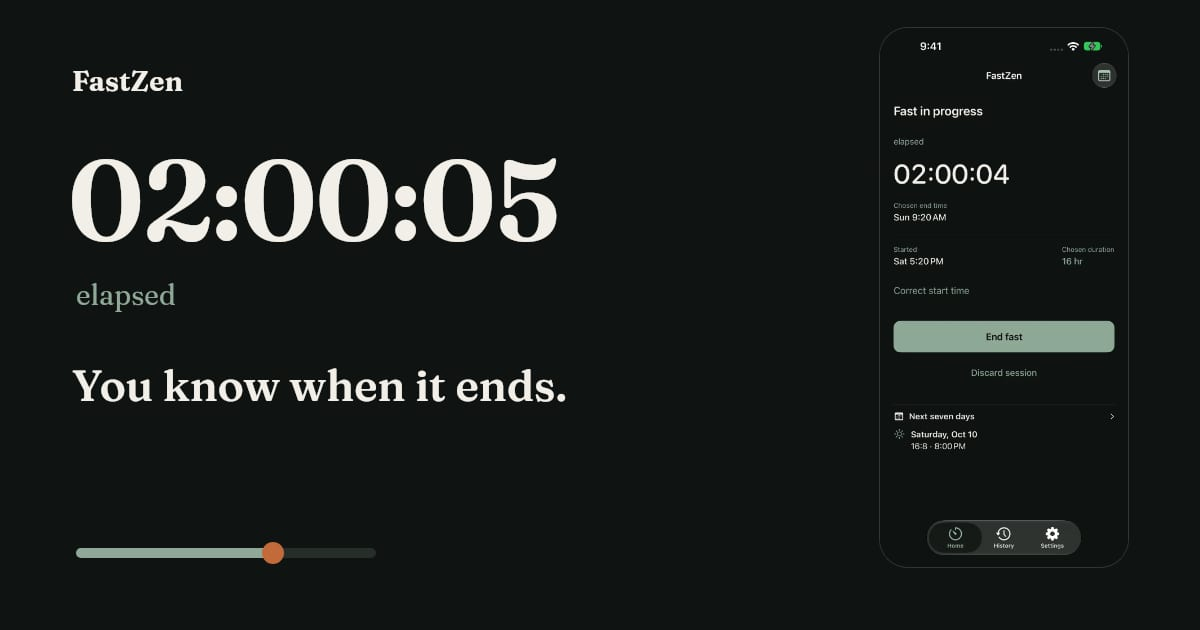
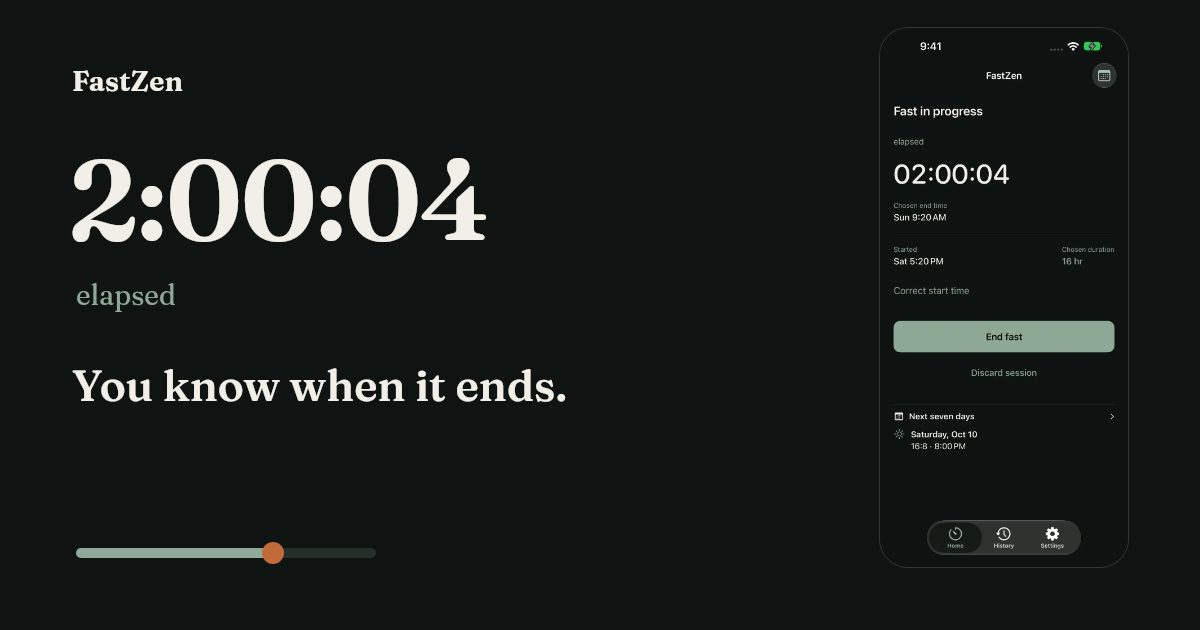
FastZen: même jeûne sur le cadran et la capture
Le cadran français part de 17:38 et finit à 09:38, comme l’accueil.
La capture est dans le premier écran mobile, et fait 70 % de la hauteur
à 1440 px. Le numéro de version sort du haut de page.

diff --git a/apps/fastzen/site/dial.css b/apps/fastzen/site/dial.css
@@ -1,6 +1,7 @@
-/* FastZen, "the fasting dial": a 24-hour ring whose sage arc is the fast
-   and whose copper mark is the planned finish. Colours are the app's dark
-   theme (Tea Black, Bamboo, Sage Mist, Copper, Mochi). One family, Fraunces. */
+/* FastZen, "the fasting dial": a 24-hour ring. The pale arc is elapsed
+   time, the sage arc is what remains, the sage dot is the finish. Colours
+   are the app's dark theme (Tea Black, Bamboo, Sage Mist, Copper, Mochi).
+   One family, Fraunces. */
 @font-face {
   font-family: "Fraunces";
   src: url("fonts/fraunces-latin-wght-normal.woff2") format("woff2");
@@ -72,7 +73,7 @@ button, input, select, textarea { font: inherit; color: inherit; }
   font-weight: 650;
   min-width: 0;
 }
-.fz-brand img { border-radius: 8px; }
+.fz-brand img { width: 36px; height: 36px; border-radius: 8px; }
 .fz-nav { display: none; gap: 8px 18px; }
 .fz-nav a { color: var(--mochi); text-decoration: none; }
 .fz-nav a:hover { text-decoration: underline; }
@@ -103,12 +104,22 @@ button, input, select, textarea { font: inherit; color: inherit; }
 .fz-open {
   max-width: var(--wrap);
   margin: 0 auto;
-  padding: 28px var(--side) 56px;
+  padding: 8px var(--side) 48px;
   text-align: center;
 }
-.fz-pitch { min-width: 0; }
-.fz-beside { display: none; }
-.fz-dial { width: min(100%, 420px); margin: 0 auto 8px; }
+.fz-pitch {
+  min-width: 0;
+  display: flex;
+  flex-wrap: wrap;
+  align-items: center;
+  justify-content: center;
+  column-gap: 14px;
+  row-gap: 8px;
+}
+.fz-titleblock { flex: 1 1 9.5rem; min-width: 0; text-align: start; }
+.fz-dial { width: min(100%, 200px); margin: 0 auto; }
+.fz-beside { display: block; flex: 0 0 auto; width: min(32vw, 118px); margin: 0; }
+.fz-badges, .fz-intro, .fz-fine, .fz-proto, .fz-range, .fz-win { flex: 1 1 100%; }
 .fz-face { position: relative; container-type: inline-size; }
 .fz-ring { width: 100%; height: auto; display: block; overflow: visible; }
 .fz-track { fill: none; stroke: var(--bamboo); stroke-width: 7; }
@@ -135,8 +146,7 @@ button, input, select, textarea { font: inherit; color: inherit; }
   text-anchor: middle;
   dominant-baseline: central;
 }
-.fz-start, .fz-endlab { fill: var(--mochi); }
-.fz-endlab { font-size: 9px; }
+.fz-startlab, .fz-endlab { fill: var(--mochi); font-size: 10px; }
 .fz-core {
   position: absolute;
   inset: 32%;
@@ -163,8 +173,8 @@ button, input, select, textarea { font: inherit; color: inherit; }
   max-width: 16ch;
 }
 .fz-hint { color: var(--sage); font-size: 0.92rem; max-width: 36em; margin: 8px auto 0; }
-.fz-lead { margin-top: 18px; color: var(--sage); }
-.fz-open .fz-badges { margin-top: 4px; margin-bottom: 18px; }
+.fz-lead { margin-top: 2px; color: var(--sage); line-height: 1.3; font-size: 0.98rem; }
+.fz-open .fz-badges { margin-top: 0; margin-bottom: 14px; }
 .fz-h1, .fz-block h2, .fz-h2b {
   font-weight: 650;
   letter-spacing: -0.03em;
@@ -172,9 +182,9 @@ button, input, select, textarea { font: inherit; color: inherit; }
   text-wrap: balance;
 }
 .fz-h1 {
-  font-size: clamp(1.85rem, 6.4vw, 4.35rem);
+  font-size: clamp(1.65rem, 6.2vw, 4.35rem);
   max-width: 16em;
-  margin: 8px auto 14px;
+  margin: 4px auto 6px;
 }
 .fz-intro { max-width: 38em; margin: 0 auto; }
 .fz-badges { display: flex; flex-wrap: wrap; gap: 12px; justify-content: center; align-items: center; margin-top: 20px; }
@@ -227,6 +237,7 @@ button, input, select, textarea { font: inherit; color: inherit; }
 .fz-guide { margin-top: 16px; }
 .fz-shot { display: grid; justify-items: center; margin-top: 22px; }
 .fz-shot img { width: min(92vw, 420px); height: auto; }
+.fz-beside img { width: 100%; height: auto; }
 .fz-cap { margin-top: 10px; max-width: 36em; color: var(--sage); font-size: 0.92rem; text-align: center; }
 
 .fz-bill { max-width: 40rem; margin-top: 22px; padding: 4px 20px 18px; border: 1px solid var(--sage); }
@@ -286,13 +297,17 @@ button, input, select, textarea { font: inherit; color: inherit; }
 @media (min-width: 900px) {
   .fz-open {
     display: grid;
-    grid-template-columns: minmax(280px, 420px) minmax(16rem, 1fr) minmax(168px, 230px);
-    align-items: center;
-    gap: 8px 32px;
+    grid-template-columns: minmax(180px, 240px) minmax(14rem, 1fr) max-content;
+    align-items: start;
+    column-gap: 28px;
     text-align: start;
-    padding-top: 28px;
+    padding-top: 12px;
+    padding-bottom: 28px;
   }
-  .fz-dial { width: 100%; margin: 0; }
+  .fz-pitch { display: contents; }
+  .fz-titleblock { display: contents; }
+  .fz-dial { grid-column: 1; grid-row: 1 / span 10; width: 100%; margin: 0; align-self: center; }
+  .fz-lead, .fz-h1, .fz-badges, .fz-intro, .fz-fine, .fz-proto, .fz-range, .fz-win { grid-column: 2; }
   .fz-pitch .fz-h1,
   .fz-pitch .fz-intro,
   .fz-pitch .fz-fine,
@@ -301,8 +316,8 @@ button, input, select, textarea { font: inherit; color: inherit; }
   .fz-open .fz-proto { justify-content: flex-start; }
   .fz-open .fz-range,
   .fz-open .fz-win { margin-left: 0; margin-right: 0; }
-  .fz-beside { display: block; margin: 0; }
-  .fz-beside img { width: min(100%, calc((100vh - 160px) * 0.46)); height: auto; }
+  .fz-beside { grid-column: 3; grid-row: 1 / span 10; width: auto; margin: 0; align-self: center; }
+  .fz-beside img { width: auto; height: 70vh; max-width: none; }
   .fz-repeat { display: none; }
   .fz-split {
     display: grid;
@@ -314,7 +329,7 @@ button, input, select, textarea { font: inherit; color: inherit; }
   .fz-flip .fz-copy { order: 2; }
   .fz-split .fz-shot { margin-top: 0; justify-items: start; }
   .fz-split .fz-cap { text-align: start; }
-  .fz-shot img { width: min(100%, 420px); }
+  .fz-split .fz-shot img { width: min(100%, 420px); }
 }
 
 @media (prefers-reduced-motion: no-preference) {

diff --git a/apps/fastzen/site/DESIGN.md b/apps/fastzen/site/DESIGN.md
@@ -7,7 +7,7 @@ Page produit de FastZen (https://bnjdpn.com/FastZen/), générée par `page.mjs`
 - **Qui** : quelqu’un qui fait un jeûne intermittent (16:8, 18:6, 20:4, OMAD ou une durée libre).
 - **Quel moment** : pendant le jeûne, téléphone en poche, pour voir depuis combien de temps ça dure et à quelle heure c’est prévu de finir.
 - **Quel problème** : le temps passe, l’app a été fermée, et la semaine n’est pas la même tous les jours (repos compris).
-- **La preuve dans l’app** : l’accueil « Jeûne en cours », 02:00:04 écoulé, fin prévue à 13:00, durée 16 h (captures App Store). La semaine sur mesure montre mardi et samedi en repos.
+- **La preuve dans l’app** : l’accueil français « Jeûne en cours », 02:00:04 écoulé, début samedi à 17:38, fin prévue dimanche à 09:38, durée 16 h. L’accueil anglais montre le même type de jeûne, commencé à 17:20 (5:20 PM) et fini à 09:20 (9:20 AM). La semaine sur mesure montre mardi et samedi en repos.
 
 ## Trois options
 
@@ -21,7 +21,7 @@ La fin prévue comme une réservation, papier clair et filet cuivre. L’heure o
 
 ### Option C : « Le cadran du jeûne » (retenue)
 
-Un cadran de 24 heures, comme l’accueil de l’app : le début (21:00) est en haut, le sens est celui des aiguilles. L’arc clair est le temps écoulé, l’arc sauge est ce qui reste du jeûne, le bambou est la fenêtre où l’on mange, le point sauge porte l’heure de fin. Les repères 00:00, 03:00, 06:00… tournent avec le début. Ensuite les vrais écrans.
+Un cadran de 24 heures, comme l’accueil de l’app : le début du jeûne montré (17:38 en français, 17:20 sur les captures anglaises) est en haut, le sens est celui des aiguilles. L’arc clair est le temps écoulé, l’arc sauge est ce qui reste du jeûne, le bambou est la fenêtre où l’on mange, le point sauge porte l’heure de fin. Les repères d’heures tournent avec le début. L’heure de fin est décalée vers l’extérieur quand elle collerait à un repère. Ensuite les vrais écrans, les mêmes horaires que le cadran.
 
 ## Pourquoi « Le cadran du jeûne »
 
@@ -35,7 +35,7 @@ TempoReps n’aboutirait pas à un cadran de jeûne avec des jours de repos. Nom
 
 ## Règles de la page
 
-- Ordre : cadran, titre, badges, choix du protocole. À partir de 900 px, la capture d’accueil est dans le premier écran, à côté du cadran. Puis la semaine, une seule date, l’historique, l’achat unique, les deux autres apps, l’assistance.
+- Ordre : cadran, titre avec la capture d’accueil à côté, badges, choix du protocole. Le numéro de version n’est pas dans le premier écran. À partir de 900 px, la capture fait au moins 70 % de la hauteur de l’écran et le cadran se réduit. Puis la semaine, une seule date, l’historique, l’achat unique, les deux autres apps, l’assistance.
 - Le cadran se lit sans légende. Pas de phrase qui décrit la page (« le cadran reprend l’écran »).
 - Navigation desktop : un ou deux mots (Jeûne, Semaine, Sur mesure, Assistance).
 - Police unique, Fraunces (OFL, The Fraunces Project), variable et sous-ensemblée latin, 36 Ko, graisses 400 à 700. Japonais : les glyphes absents passent à une mincho système. Aucune police des autres sites.
@@ -52,18 +52,19 @@ TempoReps n’aboutirait pas à un cadran de jeûne avec des jours de repos. Nom
 Anti-slop :
 - [x] Nom masqué, on reconnaît un jeûne en cours (02:00:04, fin prévue, arc de 16 h, semaine avec repos).
 - [x] Aucune police ni phrase interdite. Fraunces n’est la police d’aucun autre site.
-- [x] Classes distinctes de LoadSense, TempoReps et Petites Gouttes (`scripts/check-antitemplate.mjs`).
+- [x] Classes distinctes de LoadSense, TempoReps et Petites Gouttes (`scripts/check-antitemplate.mjs` : 59 classes, 0 % partagées).
 - [x] Pas de cartes numérotées, pas d’emoji, pas de flèche dans les liens.
 - [x] Un seul élément mémorable : le cadran qui se dessine au chargement. Changer de protocole met à jour l’arc, sans deuxième animation.
 
 Envie :
-- [x] 5 secondes sur mobile (390×844) : le temps écoulé, la fin prévue, le titre, les deux badges officiels.
+- [x] Premier écran mobile (WebKit, iPhone 13, 390×664) : cadran 02:00:04, fin prévue 09:38, titre, capture d’accueil (dimanche 09:38, samedi 17:38, 16 h) et les deux badges. Les badges finissent à y 617.
+- [x] Le cadran français et la capture française décrivent le même jeûne. Les pages qui montrent la capture anglaise partent de 17:20 et finissent à 09:20.
 - [x] Les écrans sont les captures App Store, fr-FR et en-US. Les autres langues le disent quand elles reprennent l’anglais.
-- [x] Le prix affiché n’apparaît qu’en français (6,99 €) et en anglais (5,99 $, et 6,49 $ sur Google Play US).
+- [x] Le prix affiché n’apparaît qu’en français (6,99 €) et en anglais (5,99 $, et 6,49 $ sur Google Play US). Le numéro de version n’est pas dans le premier écran.
 
 Technique :
-- [x] WebKit (Playwright, iPhone) à 375, 390 et 430 px, zoom 120 % et texte 120 %, sur les 8 langues : pas de débordement hors le champ honeypot. Capture d’accueil à 73 % de la largeur avec le zoom.
-- [x] Desktop 1440×900 : navigation en un ou deux mots, cadran et capture d’accueil dans le premier écran (la capture va de y 217 à y 716).
-- [x] Clic 18:6 : fin prévue 15:00, arc restant 16 h, repère 15:00. `prefers-reduced-motion` : pas d’animation.
-- [x] Lighthouse mobile local sur `/FastZen/fr-FR/` après le recadrage : performance 100, accessibilité 100, bonnes pratiques 100, SEO 100, LCP 1,8 s, CLS 0.
-- [x] Confidentialité et assistance à un clic. Pas de page de mentions légales. Formulaire `/api/contact`, honeypot, Turnstile `0x4AAAAAAFb8sZbCULV4skmB`, `assets/site.js` inchangé.
+- [x] WebKit à 375, 390 et 430 px, zoom 120 %, texte 120 %, et les deux ensemble, sur les 8 langues : `scrollWidth` égale `clientWidth`. Le lien d’évitement et le honeypot restent hors champ.
+- [x] Desktop 1440×900 : navigation en un ou deux mots. La capture d’accueil mesure 290×630, soit 70 % de la hauteur. Le cadran fait 240 px.
+- [x] Clic 18:6 depuis 17:38 : fin prévue 11:38, arc restant `0 2 16 24`. En anglais, depuis 17:20 : 11:20 AM. `prefers-reduced-motion` : pas d’animation.
+- [x] Lighthouse mobile local sur `/FastZen/fr-FR/` : performance 100, accessibilité 100, bonnes pratiques 100, SEO 100, LCP 1,9 s, CLS 0, TBT 0.
+- [x] `npm run check` vert. Confidentialité et assistance à un clic. Pas de page de mentions légales. Formulaire `/api/contact`, honeypot, Turnstile `0x4AAAAAAFb8sZbCULV4skmB`, `assets/site.js` inchangé.
